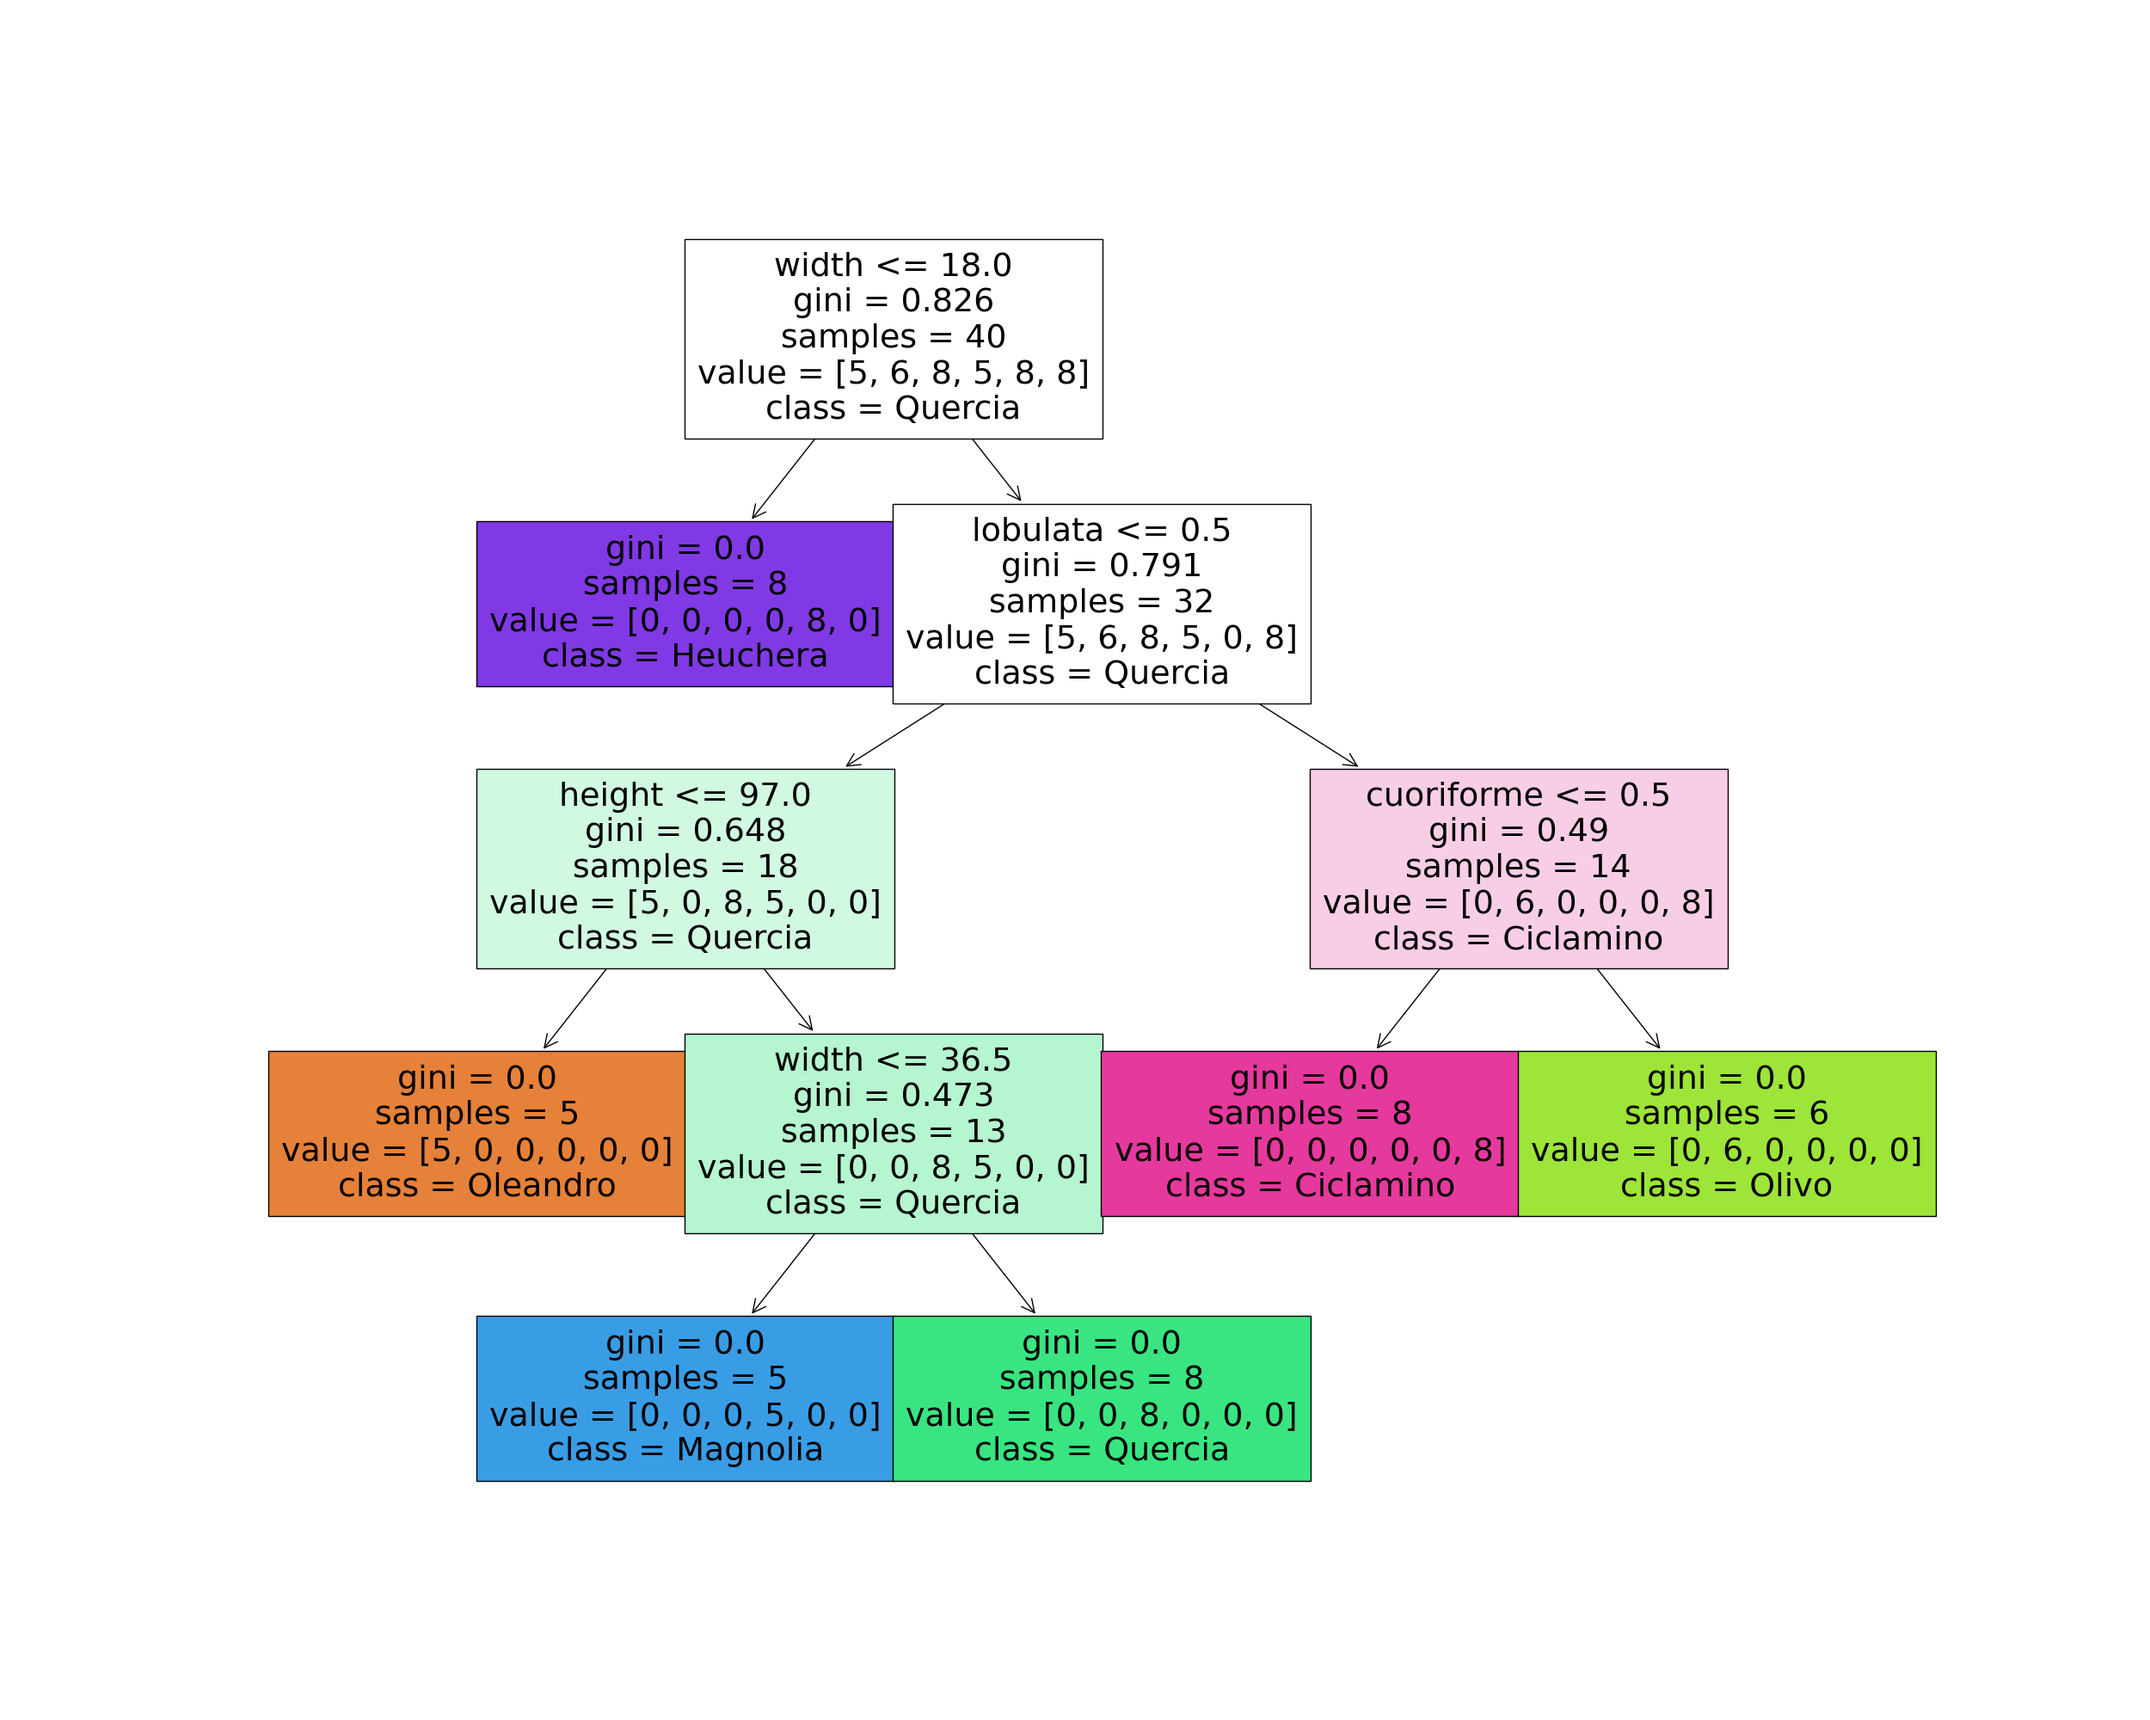
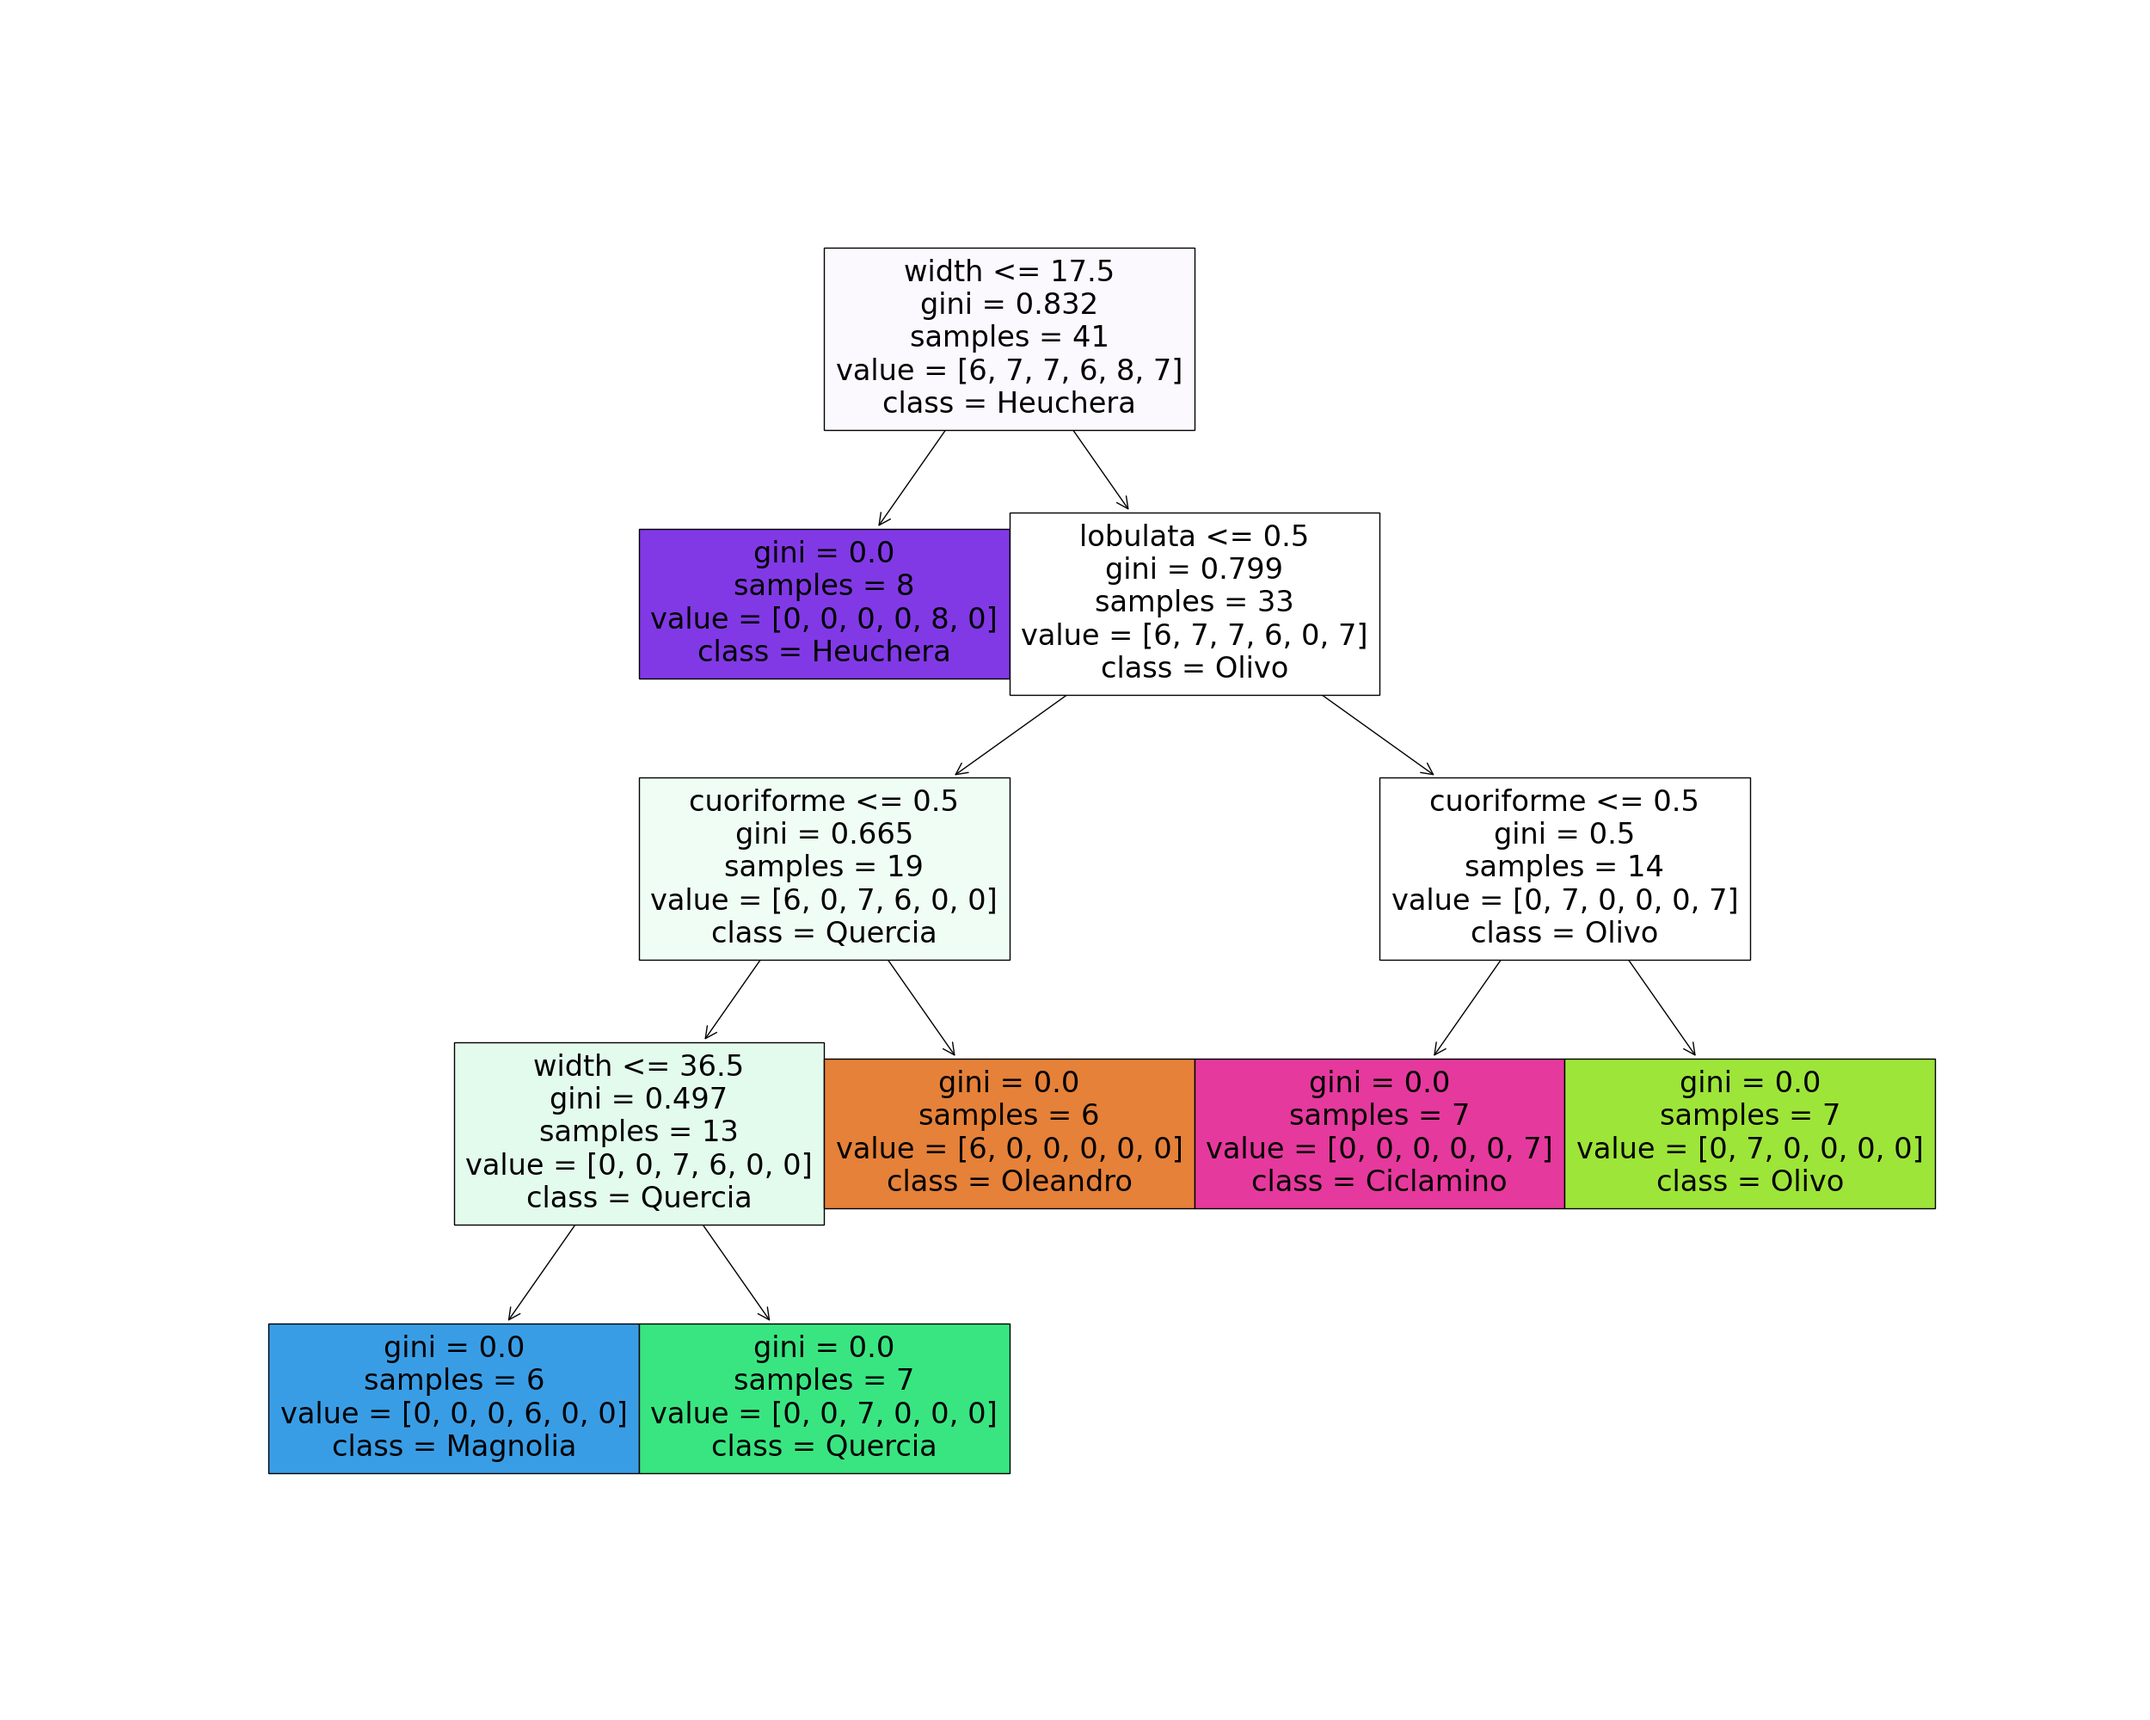
added stuff

Changed region(s): [[0.1248, 0.124, 0.9048, 0.868]]

diff --git a/decisionTree.py b/decisionTree.py
@@ -4,38 +4,80 @@ from sklearn.tree import DecisionTreeClassifier, plot_tree  # Import Decision Tr
 from sklearn.model_selection import train_test_split  # Import train_test_split function
 from sklearn import metrics  # Import scikit-learn metrics module for accuracy calculation
 
-colNames = ["name", "height", "width", "lobulata", "cuoriforme", "lanceolata"]
+
+class LeafDetails:
+    height: int
+    width: int
+    lobulata: bool
+    cuoriforme: bool
+    lanceolata: bool
+
+    def __init__(self):
+        self.height = 0
+        self.width = 0
+        self.lobulata = False
+        self.cuoriforme = False
+        self.lanceolata = False
+
+    def setHeight(self, value):
+        self.height = value
+    
+    def setWidth(self, value):
+        self.width = value
+
+    def setLobulata(self, value):
+        self.lobulata = value
+
+    def setCuoriforme(self, value):
+        self.cuoriforme = value
+
+    def setLanceolata(self, value):
+        self.lanceolata = value
+    
+
+class DecisionTree:
 
 
-def main():
-    print('MAIN')
-    leaf = pd.read_csv("./leaf_dataset.csv", header=1, names=colNames)
-    leaf.head()
-
+    colNames = ["name", "height", "width", "lobulata", "cuoriforme", "lanceolata"]
     featuresCol = ["height", "width", "lobulata", "cuoriforme", "lanceolata"]
-    X = leaf[featuresCol]
-    y = leaf.name
+    decisionTree: DecisionTreeClassifier
 
-    X_train, X_test, y_train, y_test = train_test_split(X, y, test_size=0.3, random_state=100)
+    def __init__(self):
+        self.initializeTree()
 
-    # clf = DecisionTreeClassifier(criterion="entropy")
-    print( X_test)
-    clf = DecisionTreeClassifier()
-    clf = clf.fit(X_train, y_train)
-    y_pred = clf.predict(X_test)
+    def initializeTree(self):
+        dataset = pd.read_csv("./leaf_dataset.csv", header=0, names=self.colNames)
+        dataset.head()
 
-    print("Accuracy:", metrics.accuracy_score(y_test, y_pred))
+        
+        X = dataset[self.featuresCol]
+        y = dataset.name
 
-    fig = plt.figure(figsize=(25, 20))
-    _ = plot_tree(clf,
-                  feature_names=featuresCol,
-                  class_names=["Oleandro", "Olivo", "Quercia", "Magnolia", "Heuchera", "Ciclamino"],
-                  filled=True)
-    fig.savefig("decistion_tree_gini.png")
+        X_train, X_test, y_train, y_test = train_test_split(X, y, test_size=0.3, random_state=1)
+
+        # clf = DecisionTreeClassifier(criterion="entropy")
+        print( X_test)
+        
+        self.decisionTree = DecisionTreeClassifier()
+        self.decisionTree = self.decisionTree.fit(X_train, y_train)
+        y_pred = self.decisionTree.predict(X_test)
+
+        print("Accuracy:", metrics.accuracy_score(y_test, y_pred))
+
+        # fig = plt.figure(figsize=(25, 20))
+        # _ = plot_tree(self.decisionTree,
+        #             feature_names=self.featuresCol,
+        #             class_names=["Oleandro", "Olivo", "Quercia", "Magnolia", "Heuchera", "Ciclamino"],
+        #             filled=True)
+        # fig.savefig("decistion_tree_gini.png")
+
+        # self.predictLeaf(self, LeafDetails(152, 60, False, False, True))
 
 
-if __name__ == "__main__":
-    try:
-        main()
-    except KeyboardInterrupt:
-        exit(0)
+    def predictLeaf(self, data: LeafDetails):
+        print("LEAF DETAILS", data.lanceolata, data.lobulata, data.cuoriforme)
+        predictData = [[data.height, data.width, data.lobulata, data.cuoriforme, data.lanceolata]]
+        prediction = self.decisionTree.predict(predictData)
+        return prediction[0]
+
+

diff --git a/main.py b/main.py
@@ -6,6 +6,8 @@ from tkinter.filedialog import askopenfilename
 
 from dataclasses import dataclass
 
+from decisionTree import DecisionTree, LeafDetails
+
 
 @dataclass
 class Point:
@@ -14,10 +16,16 @@ class Point:
     useful: bool
 
 
+heightTxt: tk.Text
+widthTxt: tk.Text
+leafImage: tk.Label
+
 points: list[Point] = list()
 pointsByX: list[Point] = list()
 
-path: str = ""
+path: str = "./images/leaf_icon.png"
+
+leafDecision = DecisionTree()
 
 
 def main():
@@ -59,16 +67,25 @@ def main():
         if p.useful:
             img = cv2.circle(img, (p.x, p.y), 2, (0, 0, 255), -1)
 
+    leafData = LeafDetails()
     title = 'FOGLIA'
 
     if checkLanceolata(minMax):
         title += ' LANCEOLATA '
+        leafData.lanceolata = True
     if checkLobulate(imgEdge.shape[1]):
         title += ' LOBULATA '
+        leafData.lobulata = True
     if checkCuoriformi(minMax):
         title += ' CUORIFORME '
+        leafData.cuoriforme = True
 
-    plotImage(img, title)
+    leafData.height = readHeight()
+    leafData.width = readWidth()
+
+    print("CLASSIFICATION: ", title)
+    print("IDENTIFICATION: ", leafDecision.predictLeaf(leafData))
+    plotImage(img, title + " -> " + leafDecision.predictLeaf(leafData))
 
 
 def readImage():
@@ -107,7 +124,7 @@ def detectLeaf(img):
     # find the brown color
     mask_red_brown = cv2.inRange(hsv, toHsvOpencvRange(5, 23, 7), toHsvOpencvRange(60, 80, 78))
     # find the yellow and green color in the leaf
-    mask_yellow_green = cv2.inRange(hsv, toHsvOpencvRange(20, 6, 25), toHsvOpencvRange(172, 100, 100))
+    mask_yellow_green = cv2.inRange(hsv, toHsvOpencvRange(20, 4, 15), toHsvOpencvRange(172, 100, 100))
     # find any of the three colors(green or brown or yellow) in the image
     mask = cv2.bitwise_or(mask_yellow_green, mask_red_brown)
     # mask = cv2.bitwise_or(mask, mask_dark_green)
@@ -277,16 +294,55 @@ def filePicker():
     global path
     # tk.Tk().withdraw()  # we don't want a full GUI, so keep the root window from appearing
     path = askopenfilename()  # show an "Open" dialog box and return the path to the selected file
-    main()
+    # main()
 
+def readHeight():
+    return heightTxt.get()
+
+def readWidth():
+    return widthTxt.get()
+
+def startFlow():
+    h = readHeight()
+    w = readWidth()
+
+    if len(h) > 0 and len(w) > 0:
+        main()
+
+    # print("WIDTH", readWidth())
+    # print("HEIGTH", readHeight())
 
 def initializeGUI():
     w = tk.Tk()
-    w.geometry("600x600")
+    w.geometry("350x150")
     w.title("Cielo Fabio - s292464")
 
+    heightLbl = tk.Label(w,text="Altezza")
+    heightLbl.grid(row=1, column=0)
+
+    global heightTxt
+    heightTxt = tk.Entry(w,width=20)
+    # heightTxt.insert(0, "Altezza")
+    heightTxt.grid(row=1, column=1)
+
+    heightLbl = tk.Label(w,text="Larghezza")
+    heightLbl.grid(row=2, column=0)
+
+    global widthTxt
+    widthTxt = tk.Entry(w,width=20)
+    # widthTxt.insert(0, "Larghezza")
+    widthTxt.grid(row=2, column=1)
+
     btnOpenFile = tk.Button(text="Scegli Foglia", command=filePicker)
-    btnOpenFile.grid(row=0, column=0)
+    btnOpenFile.grid(row=3, column=0)
+
+    btnOpenFile = tk.Button(text="Analizza Foglia", command=startFlow)
+    btnOpenFile.grid(row=4, column=0)
+
+    photo = tk.PhotoImage(file=path)
+
+    # leafImage = tk.Label(w,text="Foglia", image=photo, compound="top")
+    # leafImage.grid(row=5, column=0)
 
     return w
 
